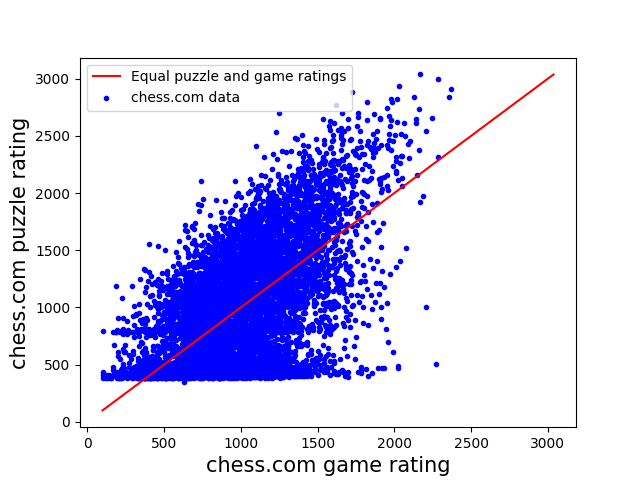
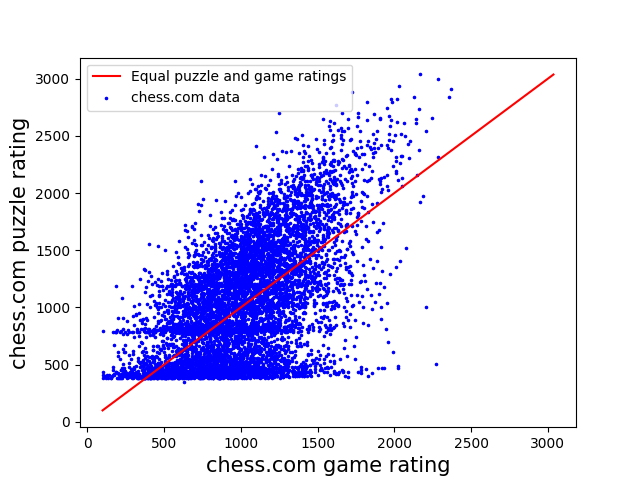
Change marker size

diff --git a/plotVals.py b/plotVals.py
@@ -26,7 +26,7 @@ def main():
     y = x
 
     plt.plot(x, y, label = "Equal puzzle and game ratings", c = "r")
-    plt.scatter(gameRatings, puzzleRatings, c = "b", marker = ".", label = "chess.com data")
+    plt.scatter(gameRatings, puzzleRatings, c = "b", marker = ".", s = 10, label = "chess.com data")
 
     plt.ylabel("chess.com puzzle rating", fontsize = 15)
     plt.xlabel("chess.com game rating",   fontsize = 15)
